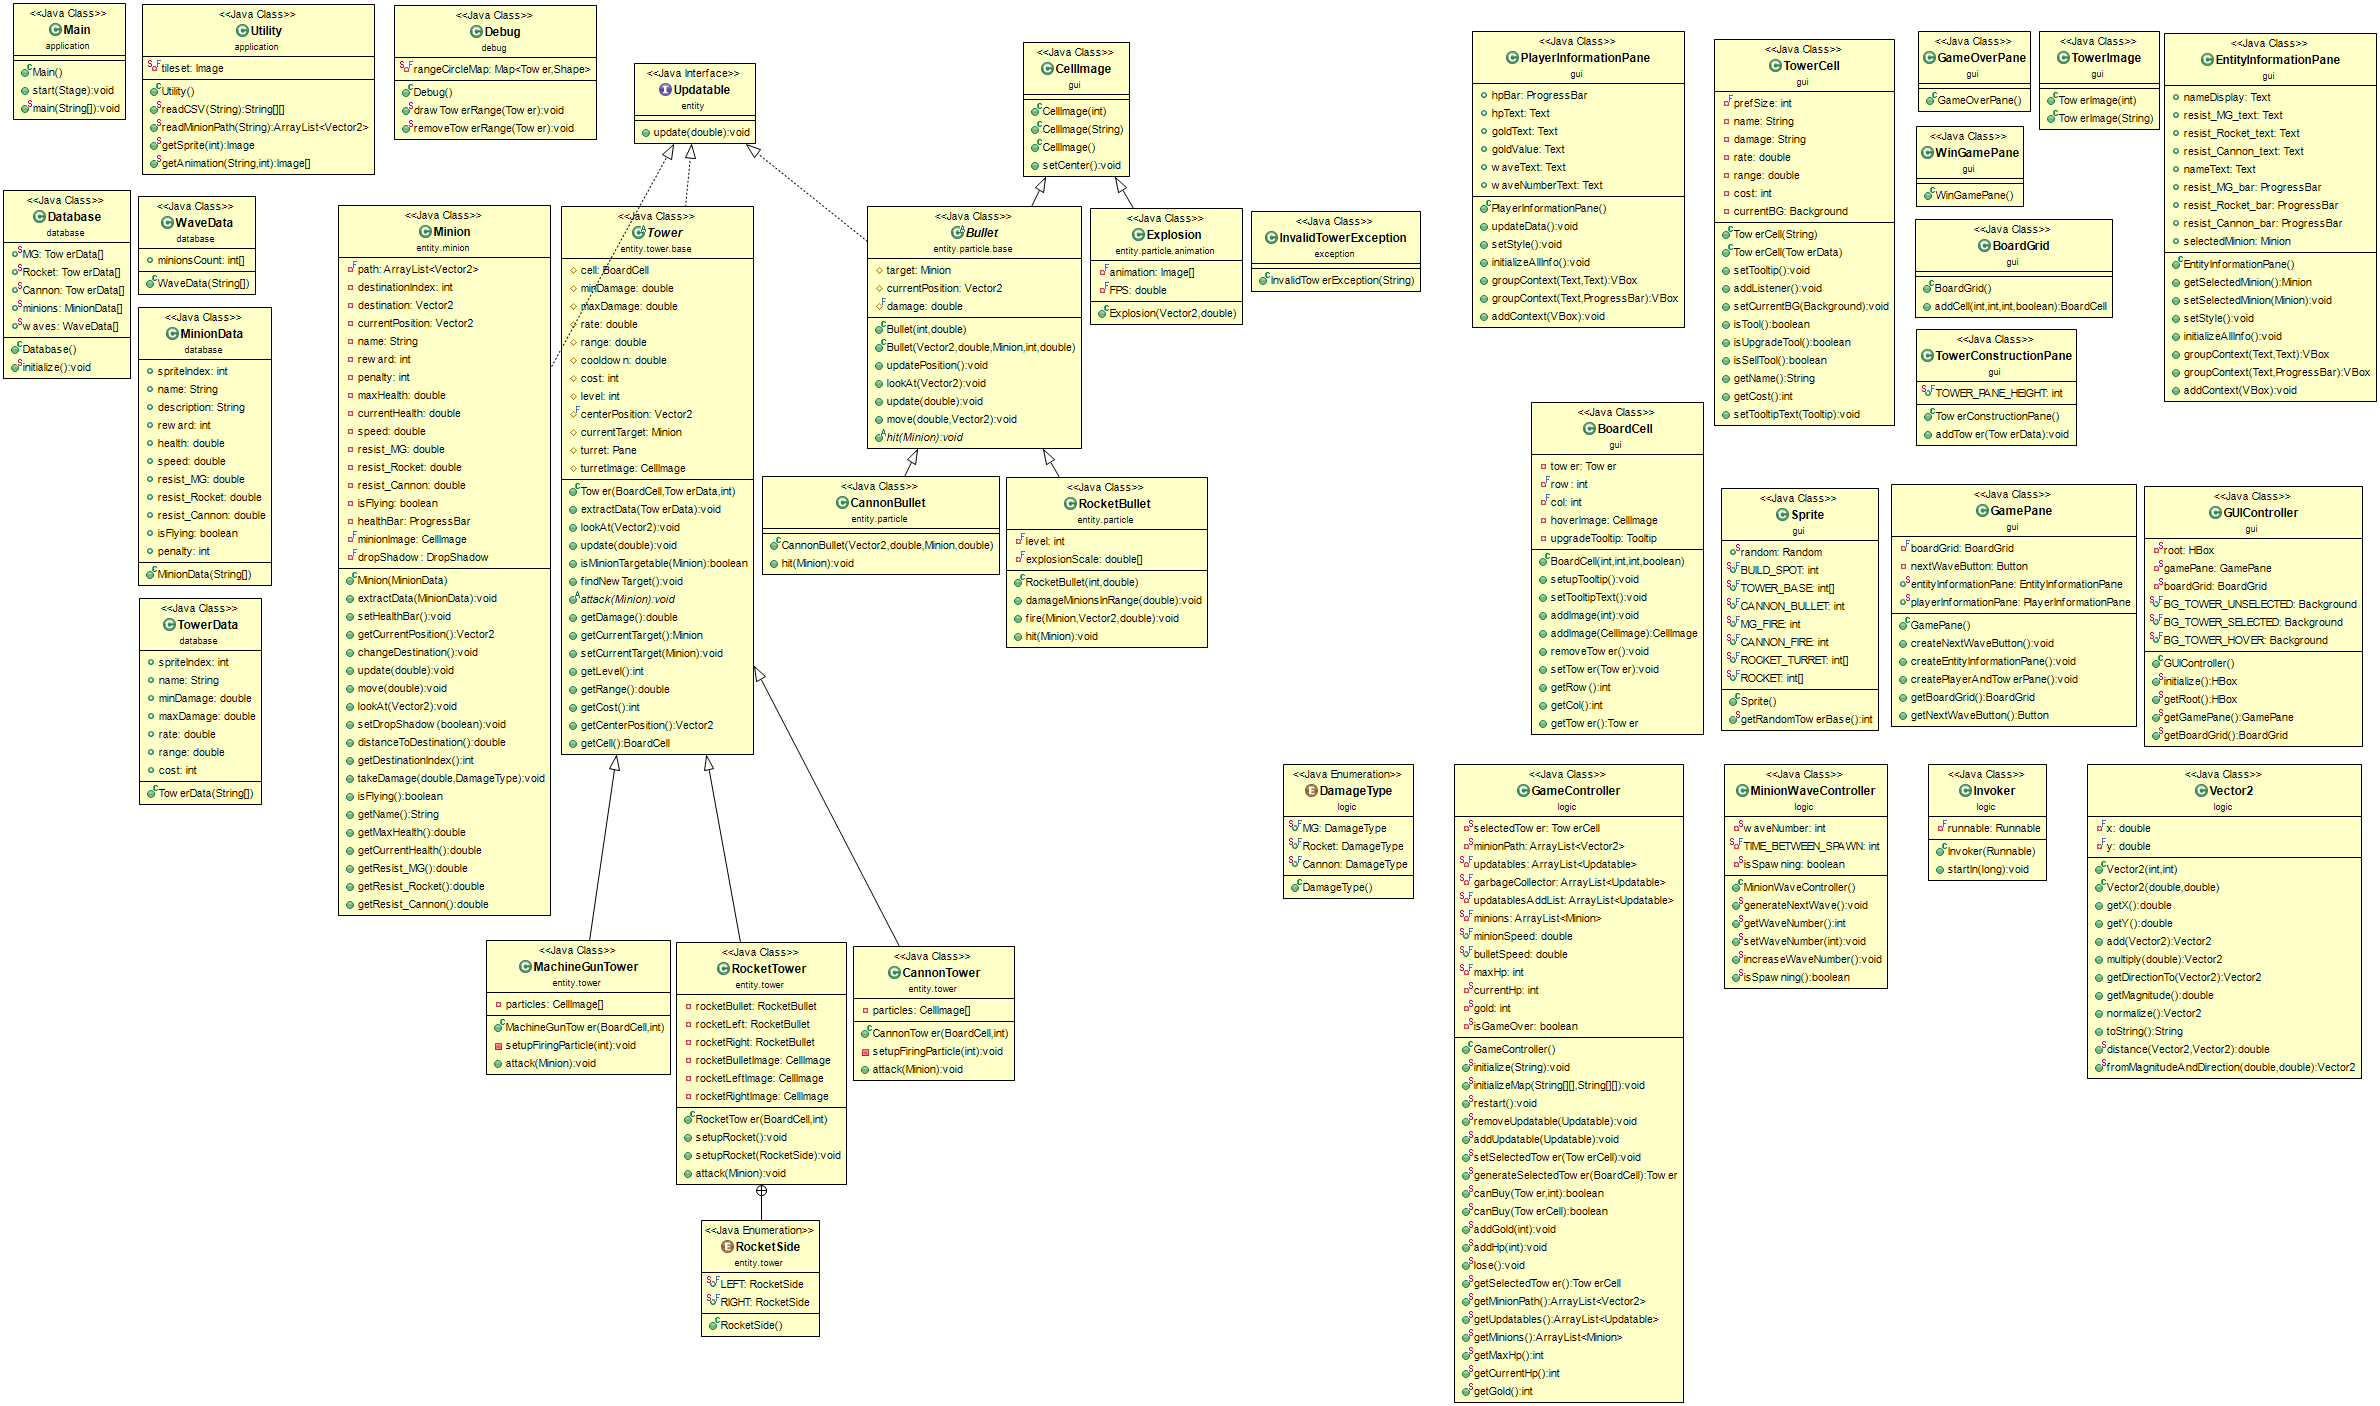
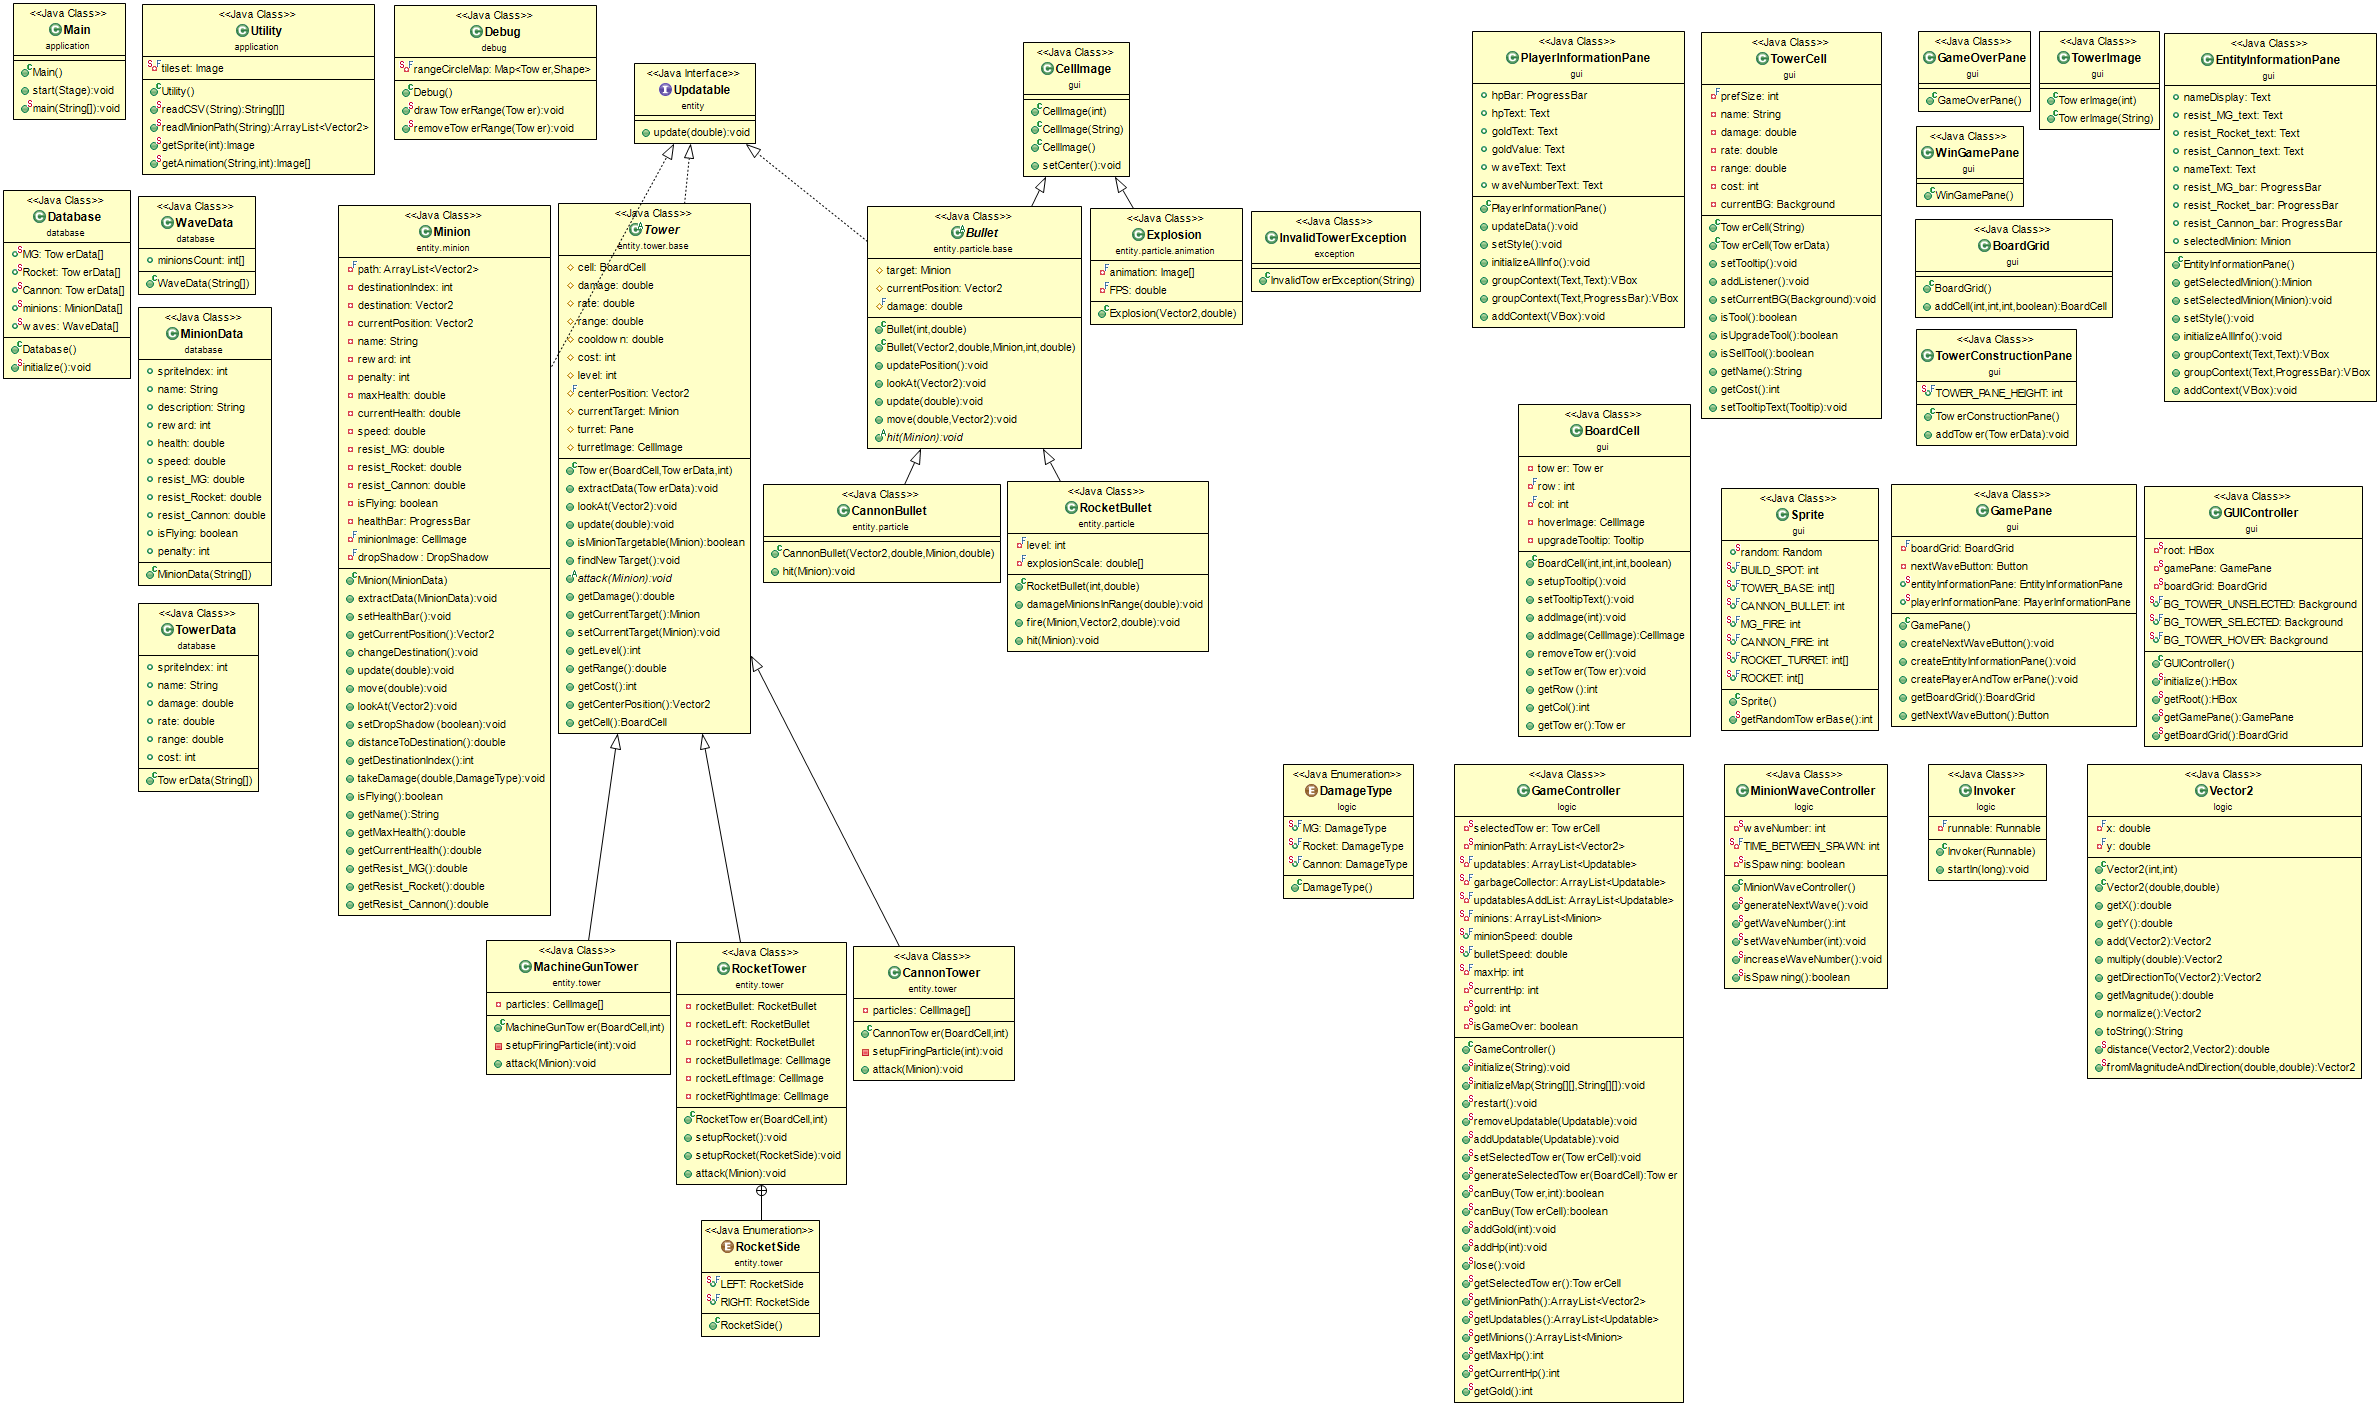
Change UML

Changed region(s): [[0.2176, 0.1223, 0.4975, 0.5505], [0.6218, 0.0, 0.8084, 0.5199], [0.0622, 0.4282, 0.1244, 0.5811]]

diff --git a/src/gui/EntityInformationPane.java b/src/gui/EntityInformationPane.java
@@ -32,10 +32,10 @@ public class EntityInformationPane extends HBox{
 	 * The constructor of the EntityInformationPane class. It initializes the fields.
 	 */
 	public EntityInformationPane() {
-		nameDisplay = new Text("unit");
-		resist_MG_text = new Text("resist_MG");
-		resist_Rocket_text = new Text("resist_Rocket");
-		resist_Cannon_text = new Text("resist_Cannon");
+		nameDisplay = new Text("Unit Name");
+		resist_MG_text = new Text("MachineGun Resistance");
+		resist_Rocket_text = new Text("Rocket Resistance");
+		resist_Cannon_text = new Text("Cannon Resistance");
 		nameText = new Text();
 		resist_MG_bar = new ProgressBar();
 		resist_Rocket_bar = new ProgressBar();
